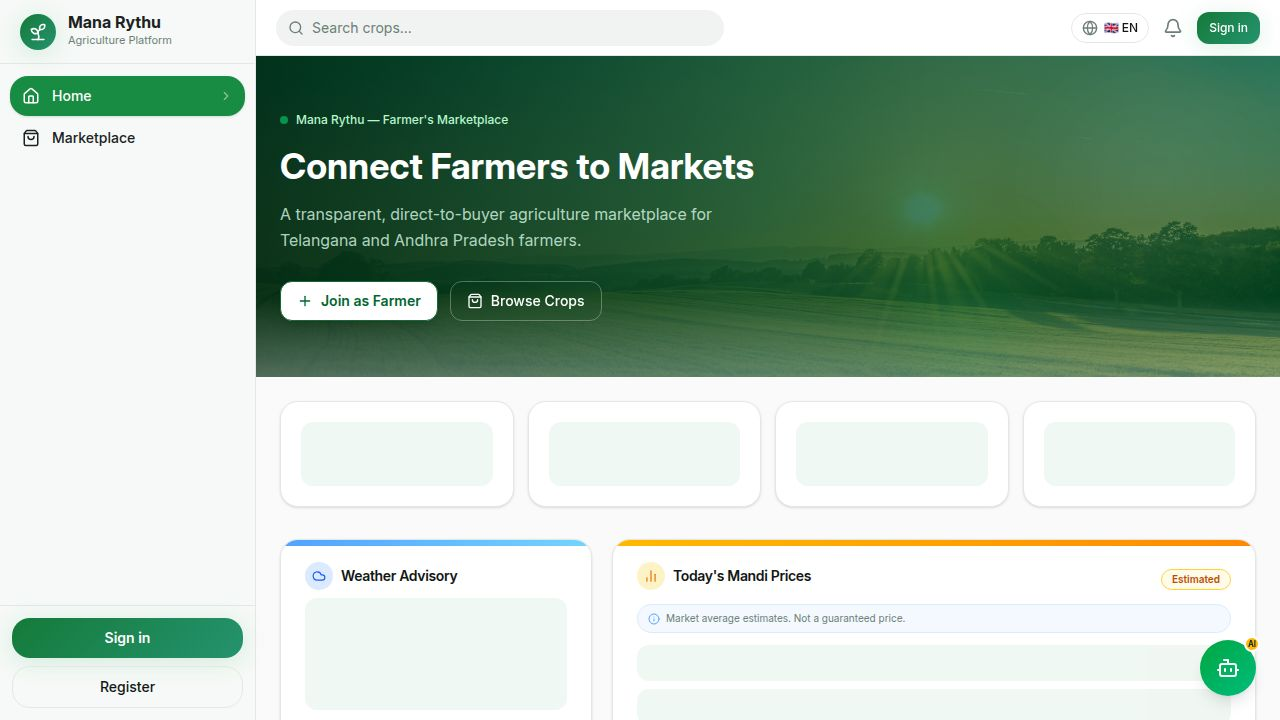
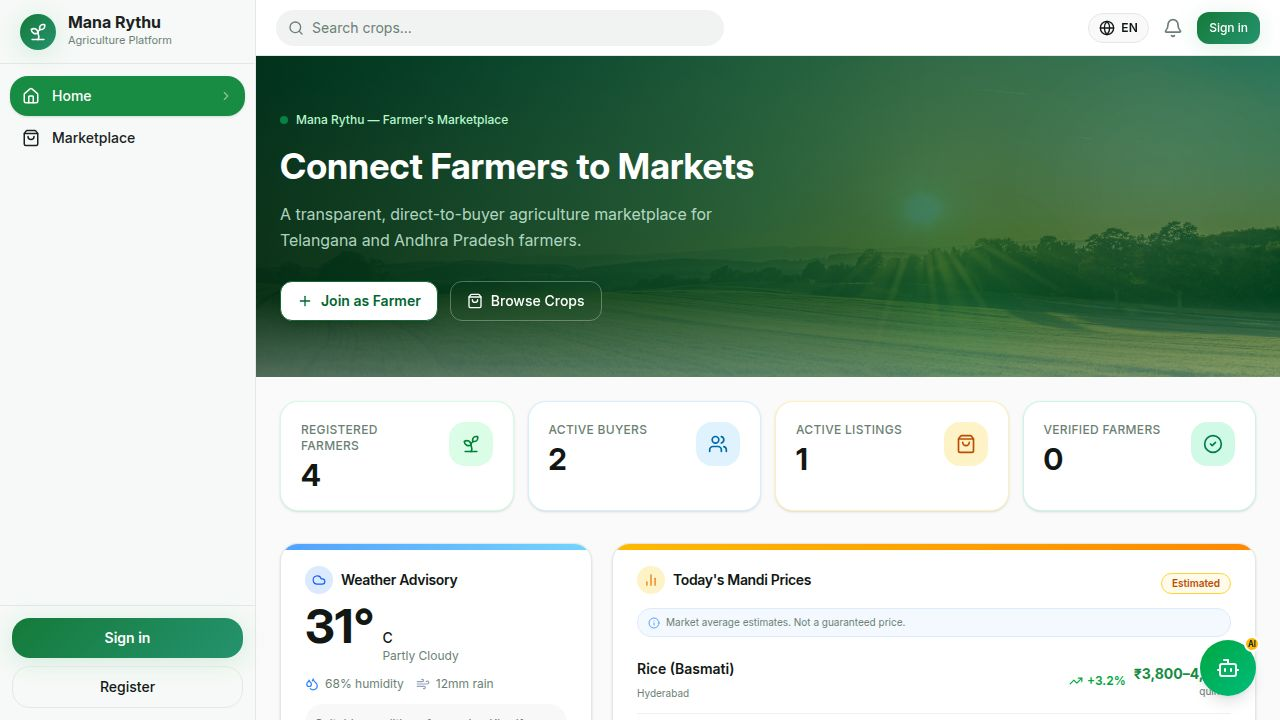
Improve layering and card display on farmer dashboard
Adjust `StatCard` component's hover and tap animations from scale to translateY, and add an `isolate` class to the farmer dashboard root element to prevent stacking context issues.

diff --git a/artifacts/mana-rythu/src/pages/FarmerDashboard.tsx b/artifacts/mana-rythu/src/pages/FarmerDashboard.tsx
@@ -65,8 +65,8 @@ interface StatCardProps {
 function StatCard({ label, value, subtext, icon: Icon, gradient, iconColor, loading }: StatCardProps) {
   return (
     <motion.div
-      whileHover={{ scale: 1.035, y: -4, transition: { duration: 0.18, ease: "easeOut" } }}
-      whileTap={{ scale: 0.97 }}
+      whileHover={{ y: -4, transition: { duration: 0.18, ease: "easeOut" } }}
+      whileTap={{ y: 1 }}
     >
     <Card className="border-0 shadow-md overflow-hidden">
       <CardContent className="p-0">
@@ -164,7 +164,7 @@ export default function FarmerDashboard() {
   const initials = user?.name?.split(" ").map(w => w[0]).join("").slice(0, 2).toUpperCase() ?? "F";
 
   return (
-    <div className="min-h-full bg-background">
+    <div className="isolate min-h-full bg-background">
 
       {/* ── Hero header ── */}
       <div className="gradient-primary px-4 sm:px-6 py-6 pb-10 relative overflow-hidden">